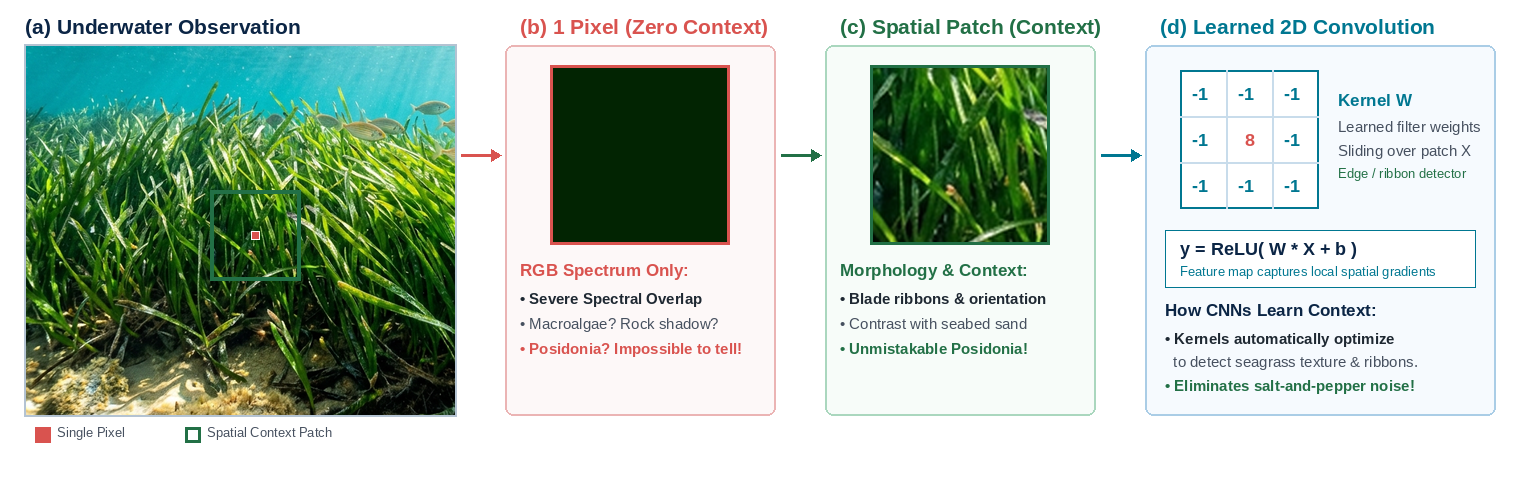
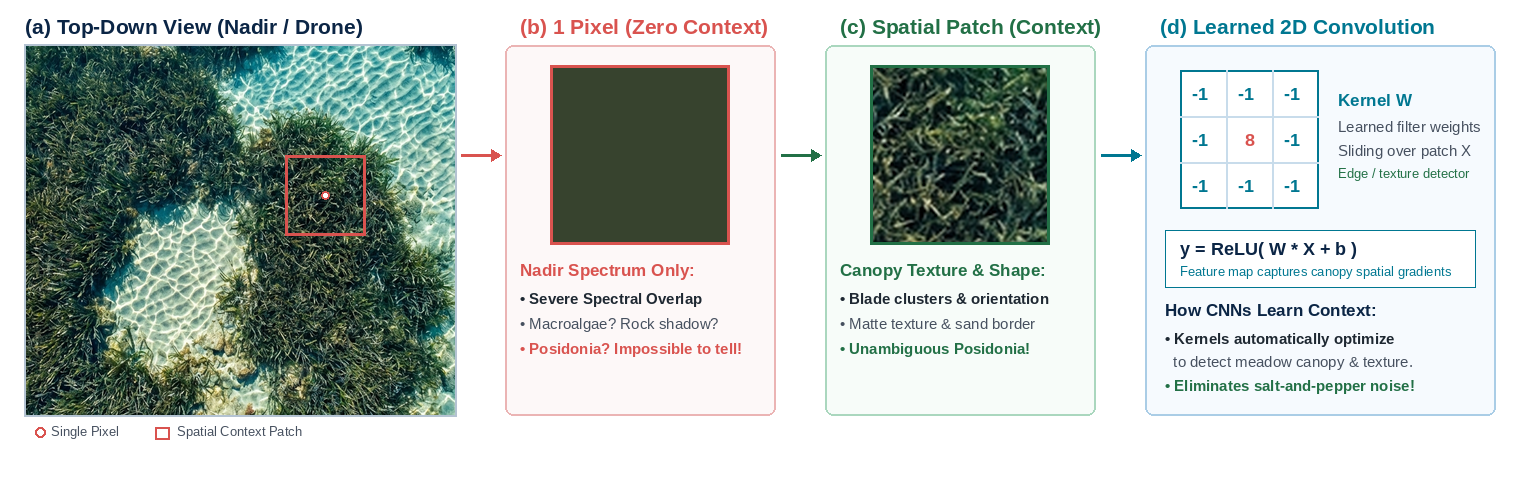
new figure

diff --git a/make_context_fig.py b/make_context_fig.py
@@ -14,36 +14,35 @@ def generate_pixel_patch_context_figure():
     font_kernel = ImageFont.truetype(font_path_bold, 18)
     font_eq = ImageFont.truetype(font_path_bold, 18)
 
-    # 1. Load base underwater image
-    base_img = Image.open('/home/pablo/Proyectos/cartograss26/figures/posidonia_underwater.jpg')
-    # Crop a detailed region: seagrass leaves, blades, sand
-    crop_box = (200, 160, 850, 700) # (650 x 540)
+    # 1. Load base top-down image
+    base_img = Image.open('/home/pablo/Proyectos/cartograss26/figures/posidonia_topdown.jpg')
+    # Crop top-down region: dense seagrass meadow transitioning into sandy seabed
+    crop_box = (350, 100, 1150, 720) # (800 x 620)
     cropped_scene = base_img.crop(crop_box).resize((430, 370), Image.Resampling.LANCZOS)
 
-    # Coordinates on the cropped scene for the patch
-    patch_size = 90
-    px_center = (230, 190)
-    patch_box = (
-        px_center[0] - patch_size // 2,
-        px_center[1] - patch_size // 2,
-        px_center[0] + patch_size // 2,
-        px_center[1] + patch_size // 2
-    )
+    # Coordinates for the single target patch (red box) in dense meadow
+    bsize = 80
+    target_bx, target_by = (260, 110)
+    target_box = (target_bx, target_by, target_bx + bsize, target_by + bsize)
 
-    # Extract patch
-    extracted_patch = cropped_scene.crop(patch_box)
-    
-    # Center pixel color
+    # Extract target patch
+    extracted_patch = cropped_scene.crop(target_box)
+
+    # Center pixel of target patch
+    px_center = (target_bx + bsize // 2, target_by + bsize // 2)
     center_color = cropped_scene.getpixel(px_center)
 
-    # Draw markings on the scene image
+    # Draw only the single red box and the center dot on the top-down scene
     scene_annotated = cropped_scene.copy()
     draw_scene = ImageDraw.Draw(scene_annotated)
-    # Patch box: green border
-    draw_scene.rectangle(patch_box, outline=(34, 112, 70), width=4)
-    # Center pixel box: red highlight
+    
+    # Red bounding box around patch
+    draw_scene.rectangle(target_box, outline=(217, 83, 79), width=3)
+
+    # Center pixel marker (white dot with red border)
     cx, cy = px_center
-    draw_scene.rectangle([cx-4, cy-4, cx+4, cy+4], fill=(217, 83, 79), outline=(255, 255, 255), width=1)
+    dot_r = 4
+    draw_scene.ellipse([cx - dot_r, cy - dot_r, cx + dot_r, cy + dot_r], fill=(255, 255, 255), outline=(217, 83, 79), width=2)
 
     # Overall canvas setup
     canvas_w = 1520
@@ -52,17 +51,17 @@ def generate_pixel_patch_context_figure():
     canvas = Image.new('RGB', (canvas_w, canvas_h), bg_color)
     draw = ImageDraw.Draw(canvas)
 
-    # Panel 1: (a) Underwater Observation
+    # Panel 1: (a) Top-Down Observation (Drone / Ortho)
     p1_x, p1_y = 25, 45
     canvas.paste(scene_annotated, (p1_x, p1_y))
     draw.rectangle([p1_x-1, p1_y-1, p1_x + 430 + 1, p1_y + 370 + 1], outline=(180, 195, 210), width=2)
-    draw.text((p1_x, 14), "(a) Underwater Observation", font=font_title, fill=(11, 37, 69))
+    draw.text((p1_x, 14), "(a) Top-Down View (Nadir / Drone)", font=font_title, fill=(11, 37, 69))
     
     # Legend below scene
-    draw.rectangle([p1_x + 10, p1_y + 382, p1_x + 25, p1_y + 397], fill=(217, 83, 79))
-    draw.text((p1_x + 32, p1_y + 380), "Single Pixel", font=font_small, fill=(70, 80, 95))
-    draw.rectangle([p1_x + 160, p1_y + 382, p1_x + 175, p1_y + 397], outline=(34, 112, 70), width=3)
-    draw.text((p1_x + 182, p1_y + 380), "Spatial Context Patch", font=font_small, fill=(70, 80, 95))
+    draw.ellipse([p1_x + 10, p1_y + 382, p1_x + 20, p1_y + 392], fill=(255, 255, 255), outline=(217, 83, 79), width=2)
+    draw.text((p1_x + 26, p1_y + 379), "Single Pixel", font=font_small, fill=(70, 80, 95))
+    draw.rectangle([p1_x + 130, p1_y + 382, p1_x + 144, p1_y + 394], outline=(217, 83, 79), width=2)
+    draw.text((p1_x + 152, p1_y + 379), "Spatial Context Patch", font=font_small, fill=(70, 80, 95))
 
     # Panel 2: (b) Isolated Pixel
     p2_x, p2_y = 505, 45
@@ -80,7 +79,7 @@ def generate_pixel_patch_context_figure():
     canvas.paste(pixel_img, (px_disp_x, px_disp_y))
 
     # Pixel description
-    draw.text((p2_x + 15, px_disp_y + 195), "RGB Spectrum Only:", font=font_subtitle, fill=(217, 83, 79))
+    draw.text((p2_x + 15, px_disp_y + 195), "Nadir Spectrum Only:", font=font_subtitle, fill=(217, 83, 79))
     draw.text((p2_x + 15, px_disp_y + 225), "• Severe Spectral Overlap", font=font_body_bold, fill=(30, 40, 50))
     draw.text((p2_x + 15, px_disp_y + 250), "• Macroalgae? Rock shadow?", font=font_body, fill=(70, 80, 95))
     draw.text((p2_x + 15, px_disp_y + 275), "• Posidonia? Impossible to tell!", font=font_body_bold, fill=(217, 83, 79))
@@ -97,10 +96,10 @@ def generate_pixel_patch_context_figure():
     canvas.paste(patch_disp, (p3_x + (card_w - px_disp_size) // 2, p3_y + 20))
 
     # Patch description
-    draw.text((p3_x + 15, px_disp_y + 195), "Morphology & Context:", font=font_subtitle, fill=(34, 112, 70))
-    draw.text((p3_x + 15, px_disp_y + 225), "• Blade ribbons & orientation", font=font_body_bold, fill=(30, 40, 50))
-    draw.text((p3_x + 15, px_disp_y + 250), "• Contrast with seabed sand", font=font_body, fill=(70, 80, 95))
-    draw.text((p3_x + 15, px_disp_y + 275), "• Unmistakable Posidonia!", font=font_body_bold, fill=(34, 112, 70))
+    draw.text((p3_x + 15, px_disp_y + 195), "Canopy Texture & Shape:", font=font_subtitle, fill=(34, 112, 70))
+    draw.text((p3_x + 15, px_disp_y + 225), "• Blade clusters & orientation", font=font_body_bold, fill=(30, 40, 50))
+    draw.text((p3_x + 15, px_disp_y + 250), "• Matte texture & sand border", font=font_body, fill=(70, 80, 95))
+    draw.text((p3_x + 15, px_disp_y + 275), "• Unambiguous Posidonia!", font=font_body_bold, fill=(34, 112, 70))
 
     # Panel 4: (d) 2D Convolution Kernel
     p4_x, p4_y = 1145, 45
@@ -134,17 +133,17 @@ def generate_pixel_patch_context_figure():
     draw.text((k_x + 3*c_size + 20, k_y + 20), "Kernel W", font=font_subtitle, fill=(0, 119, 145))
     draw.text((k_x + 3*c_size + 20, k_y + 48), "Learned filter weights", font=font_body, fill=(70, 80, 95))
     draw.text((k_x + 3*c_size + 20, k_y + 72), "Sliding over patch X", font=font_body, fill=(70, 80, 95))
-    draw.text((k_x + 3*c_size + 20, k_y + 96), "Edge / ribbon detector", font=font_small, fill=(34, 112, 70))
+    draw.text((k_x + 3*c_size + 20, k_y + 96), "Edge / texture detector", font=font_small, fill=(34, 112, 70))
 
     # Mathematical operation box
     draw.rectangle([p4_x + 20, p4_y + 185, p4_x + card4_w - 20, p4_y + 242], fill=(255, 255, 255), outline=(0, 119, 145), width=1)
     draw.text((p4_x + 35, p4_y + 193), "y = ReLU( W * X + b )", font=font_eq, fill=(11, 37, 69))
-    draw.text((p4_x + 35, p4_y + 219), "Feature map captures local spatial gradients", font=font_small, fill=(0, 119, 145))
+    draw.text((p4_x + 35, p4_y + 219), "Feature map captures canopy spatial gradients", font=font_small, fill=(0, 119, 145))
 
     # CNN takeaway
     draw.text((p4_x + 20, p4_y + 255), "How CNNs Learn Context:", font=font_subtitle, fill=(11, 37, 69))
     draw.text((p4_x + 20, p4_y + 285), "• Kernels automatically optimize", font=font_body_bold, fill=(30, 40, 50))
-    draw.text((p4_x + 20, p4_y + 308), "  to detect seagrass texture & ribbons.", font=font_body, fill=(70, 80, 95))
+    draw.text((p4_x + 20, p4_y + 308), "  to detect meadow canopy & texture.", font=font_body, fill=(70, 80, 95))
     draw.text((p4_x + 20, p4_y + 332), "• Eliminates salt-and-pepper noise!", font=font_body_bold, fill=(34, 112, 70))
 
     # Connecting arrows between panels
@@ -163,8 +162,7 @@ def generate_pixel_patch_context_figure():
     draw.polygon([(p4_x - 4, arrow_y), (p4_x - 14, arrow_y - 6), (p4_x - 14, arrow_y + 6)], fill=(0, 119, 145))
 
     canvas.save('/home/pablo/Proyectos/cartograss26/figures/pixel_vs_patch_context.png', dpi=(300, 300))
-    print("Successfully generated figures/pixel_vs_patch_context.png")
+    print("Successfully generated figures/pixel_vs_patch_context.png with only red box and center dot")
 
 if __name__ == '__main__':
     generate_pixel_patch_context_figure()
-
